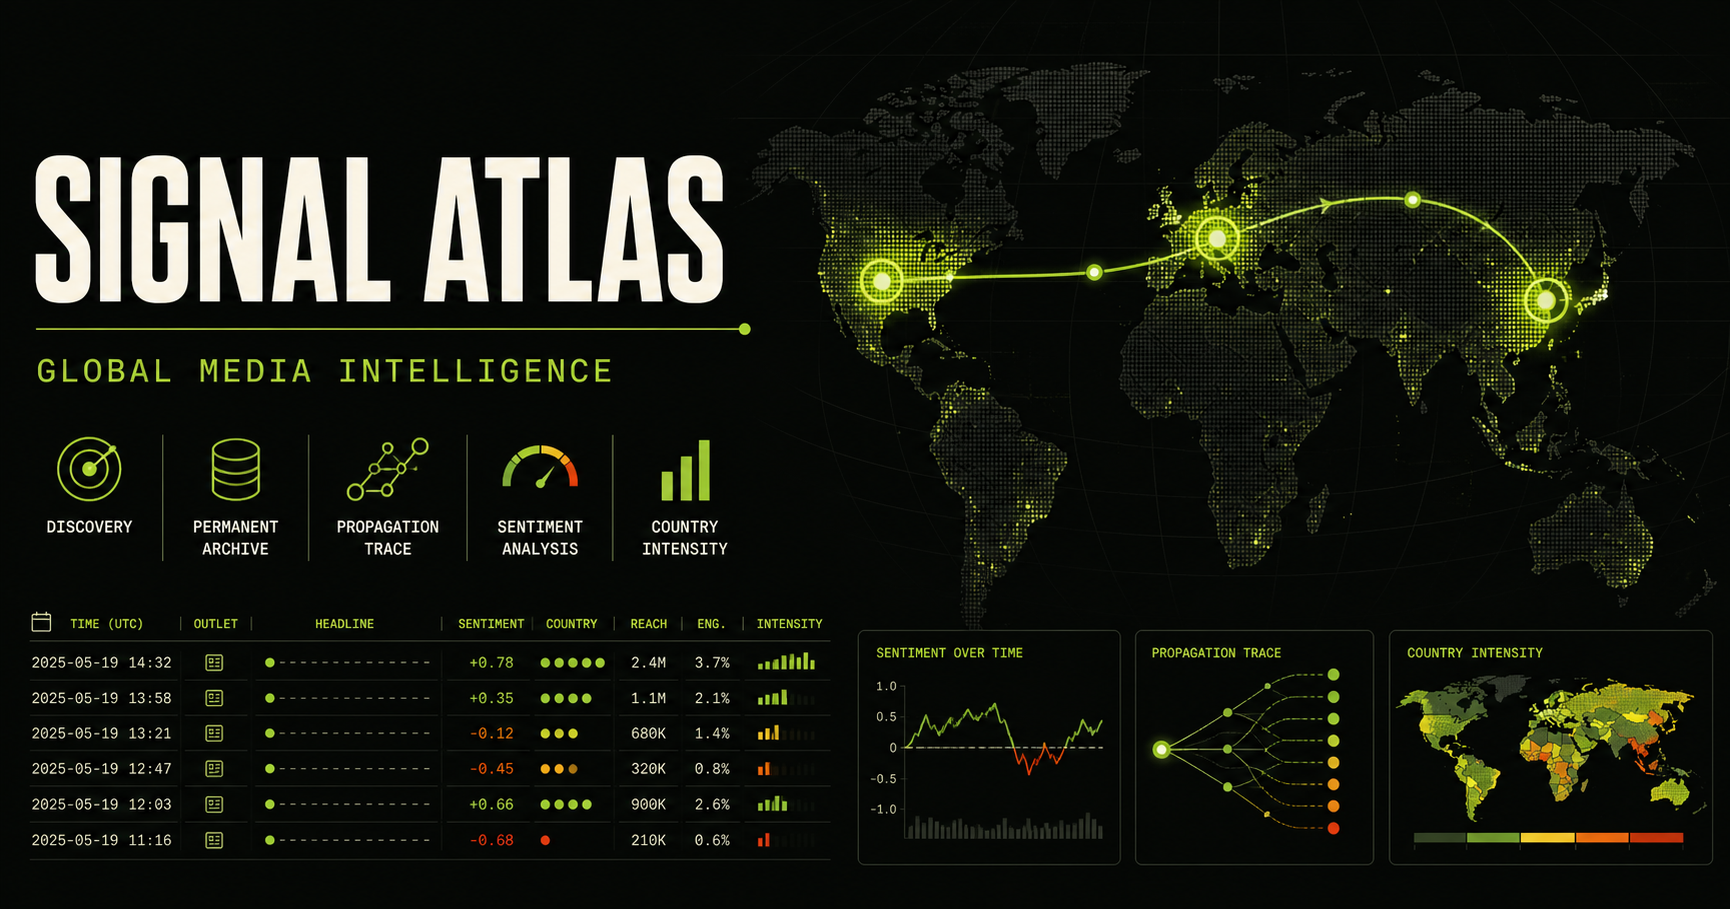
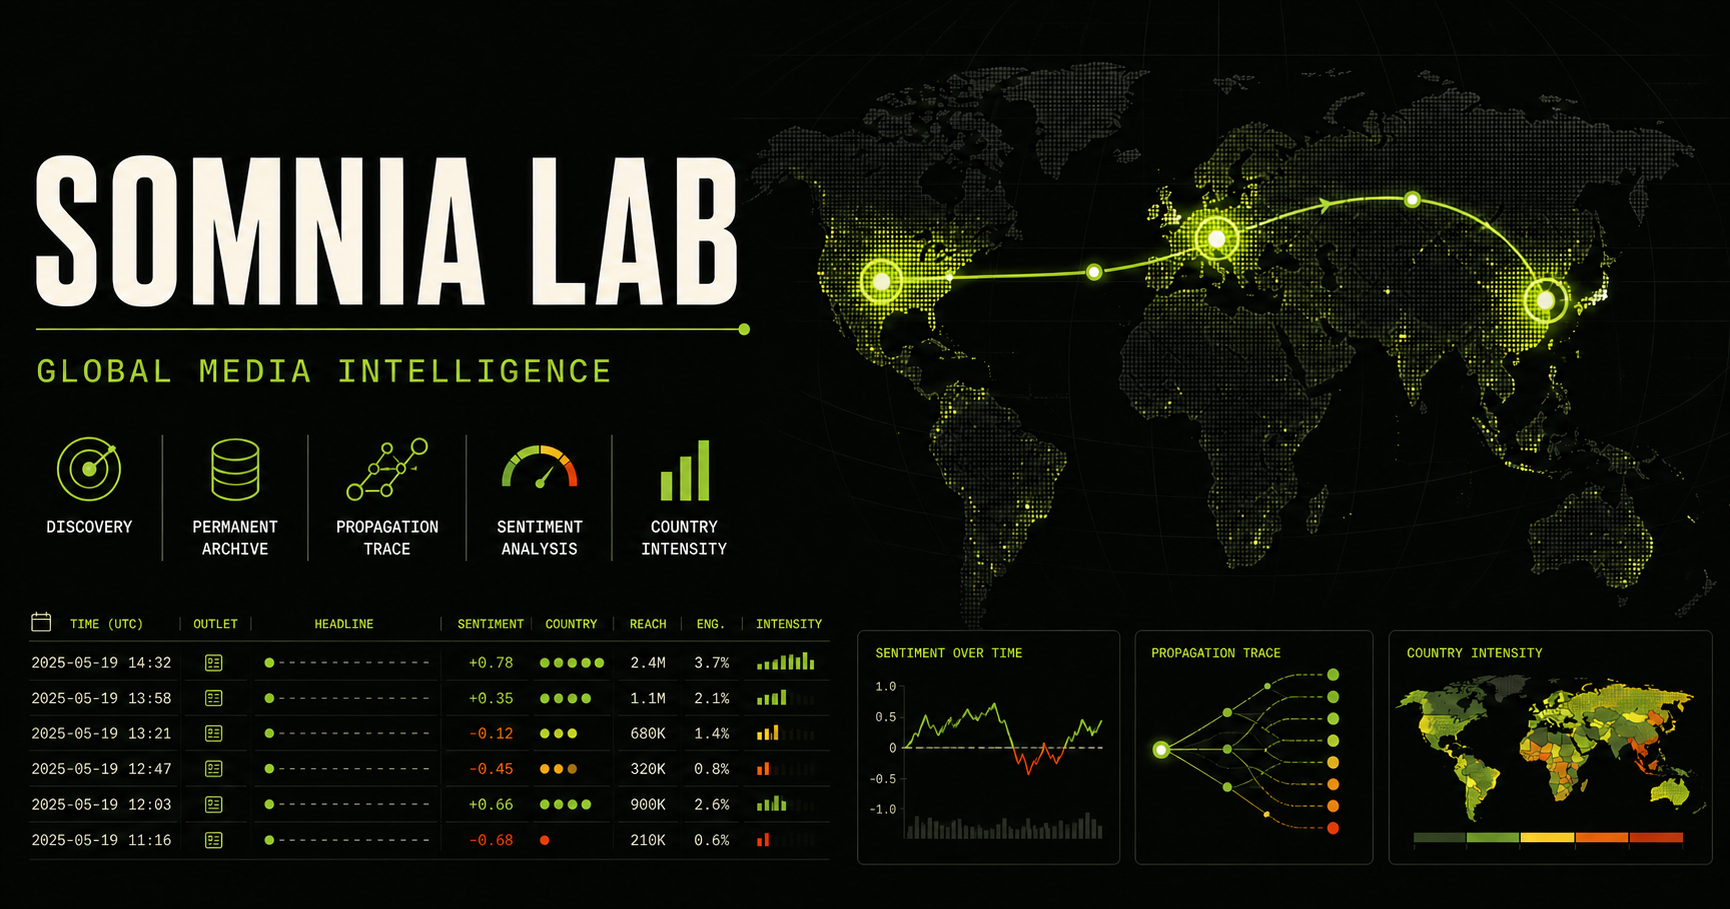
Rename product to Somnia Lab

diff --git a/app/report-view.tsx b/app/report-view.tsx
@@ -73,7 +73,7 @@ function keywordEntries(value: string) {
 }
 
 function ReportHeader({ section, brand, period }: { section: string; brand: string; period: string }) {
-  return <header className="report-page-header"><div><b>SIGNAL ATLAS</b><span>MEDIA INTELLIGENCE REPORT</span></div><div><strong>{section}</strong><span>{brand} · {period}</span></div></header>;
+  return <header className="report-page-header"><div><b>Somnia Lab</b><span>GLOBAL MEDIA INTELLIGENCE</span></div><div><strong>{section}</strong><span>{brand} · {period}</span></div></header>;
 }
 
 function ReportFooter({ page, generatedAt }: { page: number; generatedAt: string }) {
@@ -373,7 +373,7 @@ export default function ReportView({ brand, workspaceName, mentions, analytics, 
 
     <div className="report-print-source" aria-hidden="true"><div className="report-document" ref={reportRef}>
       <section className="report-sheet report-cover">
-        <div className="report-cover-mark"><span /><span /><span /></div><div className="report-cover-copy"><p>SIGNAL ATLAS / MEDIA INTELLIGENCE</p><h1>{title || "品牌舆情数据分析报告"}</h1><h2>{brand.name}</h2><div className="report-cover-period"><span>{period}</span><b>{scopedMentions.length ? `${shortDate(scopedMentions.at(-1)?.published_at ?? "")} — ${shortDate(scopedMentions[0]?.published_at ?? "")}` : "等待数据"}</b></div><div className="report-cover-scope">{Object.keys(platformColors).map((item) => <span key={item}><i style={{ background: platformColors[item] }} />{item}</span>)}</div></div>
+        <div className="report-cover-mark"><span /><span /><span /></div><div className="report-cover-copy"><p>Somnia Lab / GLOBAL MEDIA INTELLIGENCE</p><h1>{title || "品牌舆情数据分析报告"}</h1><h2>{brand.name}</h2><div className="report-cover-period"><span>{period}</span><b>{scopedMentions.length ? `${shortDate(scopedMentions.at(-1)?.published_at ?? "")} — ${shortDate(scopedMentions[0]?.published_at ?? "")}` : "等待数据"}</b></div><div className="report-cover-scope">{Object.keys(platformColors).map((item) => <span key={item}><i style={{ background: platformColors[item] }} />{item}</span>)}</div></div>
         <div className="report-cover-meta"><div><span>WORKSPACE</span><strong>{workspaceName}</strong></div><div><span>GENERATED</span><strong>{generatedAt}</strong></div><div><span>DATA POLICY</span><strong>仅使用已归档与已实际采集数据</strong></div></div>
       </section>
 

diff --git a/app/page.tsx b/app/page.tsx
@@ -182,7 +182,7 @@ export default function Home() {
 
   useEffect(() => {
     const label = nav.find(([id]) => id === view)?.[1] ?? "品牌舆情监测";
-    document.title = `${label} · Signal Atlas`;
+    document.title = `${label} · Somnia Lab`;
   }, [view]);
 
   async function syncNews(force = false, announce = false) {
@@ -284,7 +284,7 @@ export default function Home() {
 
   return <main className="app-shell">
     <aside className="sidebar">
-      <div className="brand-lockup"><div className="brand-mark"><span /><span /><span /></div><div><strong>SIGNAL ATLAS</strong><small>GLOBAL MEDIA INTELLIGENCE</small></div></div>
+      <div className="brand-lockup"><div className="brand-mark"><span /><span /><span /></div><div><strong>Somnia Lab</strong><small>GLOBAL MEDIA INTELLIGENCE</small></div></div>
       <nav aria-label="主要导航">{nav.map(([id, label, number]) => <a key={id} href={routeByView[id]} aria-current={view === id ? "page" : undefined} className={view === id ? "nav-item active" : "nav-item"} onClick={(event) => { if (event.metaKey || event.ctrlKey || event.shiftKey || event.altKey) return; event.preventDefault(); navigateTo(id); }}><span>{number}</span>{label}{id === "overview" && activeAlerts.length > 0 && <b>{activeAlerts.length}</b>}</a>)}</nav>
       {data.viewer.authenticated && <div className="system-card">
         <div className="system-title"><i /> 混合监测已运行</div>

diff --git a/app/layout.tsx b/app/layout.tsx
@@ -19,17 +19,17 @@ export async function generateMetadata(): Promise<Metadata> {
   const protocol = requestHeaders.get("x-forwarded-proto") ?? (host.startsWith("localhost") ? "http" : "https");
   const origin = `${protocol}://${host}`;
   return {
-    title: "Signal Atlas · 全球舆情雷达",
+    title: "Somnia Lab · GLOBAL MEDIA INTELLIGENCE",
     description: "全球品牌新闻自动发现、长期归档、传播溯源与舆情分析平台。",
     metadataBase: new URL(origin),
     openGraph: {
-      title: "Signal Atlas · 全球舆情雷达",
+      title: "Somnia Lab · GLOBAL MEDIA INTELLIGENCE",
       description: "少量全球发现、免费媒体持续追踪、新闻长期归档、传播链路与情绪分析。",
       images: [`${origin}/og-v2.png`],
     },
     twitter: {
       card: "summary_large_image",
-      title: "Signal Atlas · 全球舆情雷达",
+      title: "Somnia Lab · GLOBAL MEDIA INTELLIGENCE",
       description: "少量全球发现、免费媒体持续追踪、新闻长期归档、传播链路与情绪分析。",
       images: [`${origin}/og-v2.png`],
     },
